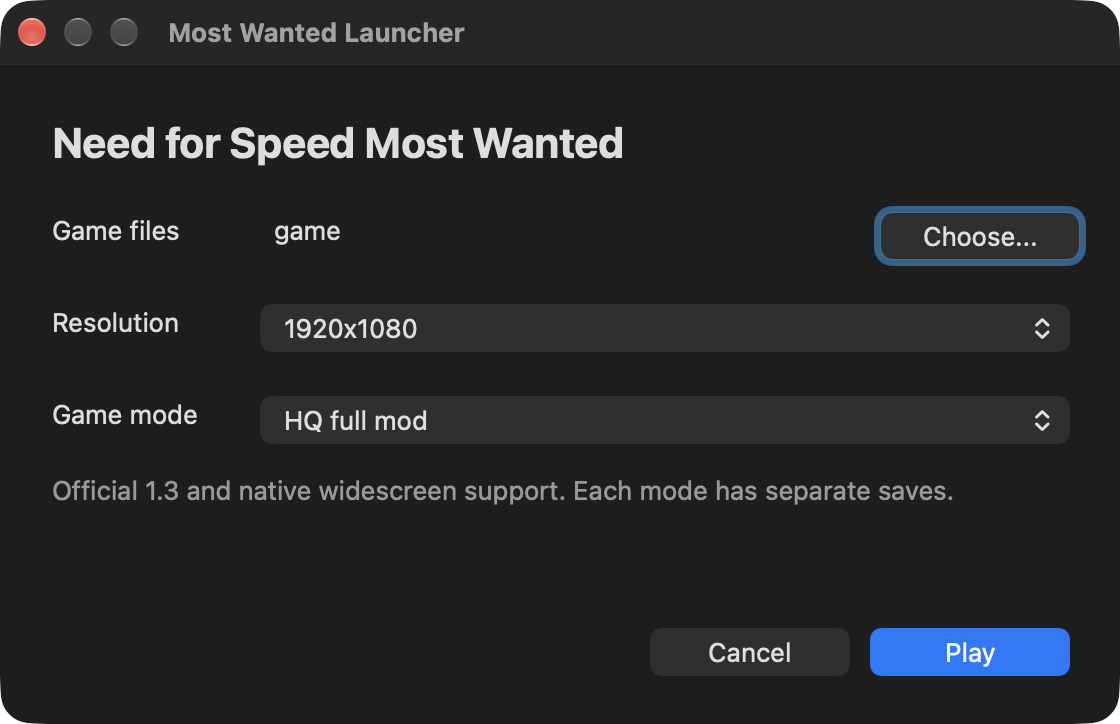
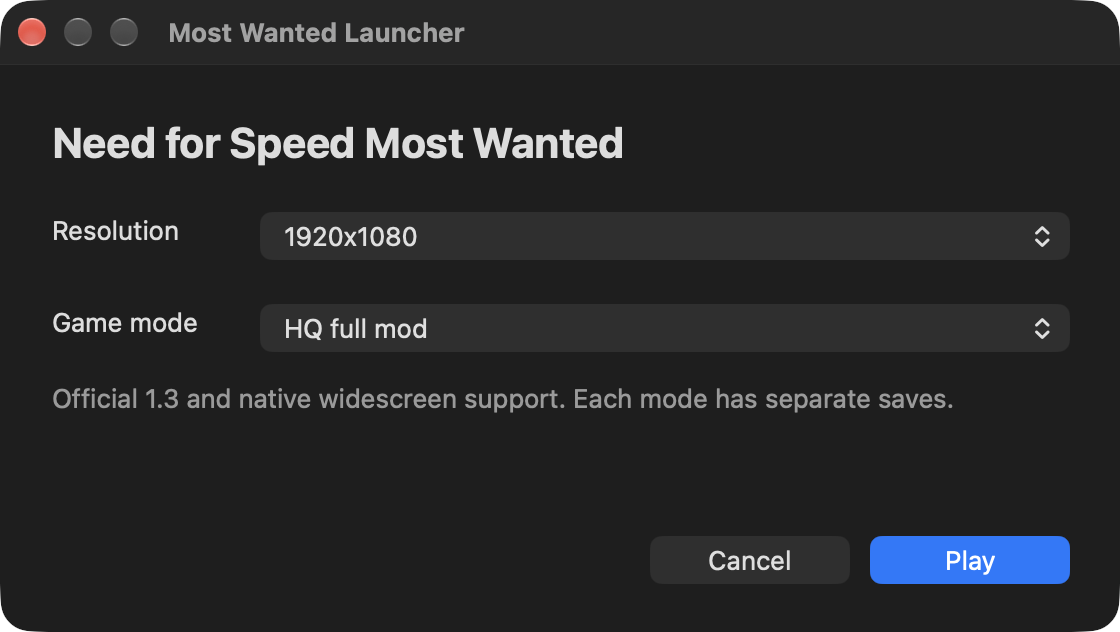
Always run the game bundled inside the app

diff --git a/runtime/launcher.m b/runtime/launcher.m
@@ -11,13 +11,20 @@ int app_full_hq_supported(void){
 #endif
 }
 
-NSString *launcher_game_folder(NSString *resources,NSString *external,NSString *previous){
-    NSFileManager *files=NSFileManager.defaultManager;
-    if(external.length&&[files fileExistsAtPath:[external stringByAppendingPathComponent:@"speed.exe"]])return external;
+/* The game always runs from the copy inside the app: Contents/Resources/game. */
+NSString *launcher_game_folder(NSString *resources){
+    if(!resources.length)return nil;
     NSString *bundled=[resources stringByAppendingPathComponent:@"game"];
-    if([files fileExistsAtPath:[bundled stringByAppendingPathComponent:@"speed.exe"]])return bundled;
-    return previous;
+    for(NSString *name in @[@"speed.exe",@"d3dx9_26.dll"]){
+        BOOL directory=NO;
+        if(![NSFileManager.defaultManager fileExistsAtPath:[bundled stringByAppendingPathComponent:name] isDirectory:&directory]||directory)
+            return nil;
+    }
+    return bundled;
 }
+
+static NSString *const missing_game=@"The game files inside NFSMW.app are missing or damaged. "
+    "Build the app again with NFSMW Builder.";
 
 int launcher_options(const char *folder,const char *mode,const char *resolution,
                      char *selected,size_t selected_size,char *error,size_t error_size){
@@ -26,7 +33,7 @@ int launcher_options(const char *folder,const char *mode,const char *resolution,
         NSString *root=folder?[NSString stringWithUTF8String:folder]:nil;
         NSString *choice=mode?[NSString stringWithUTF8String:mode]:nil;
         unsigned w=0,h=0;char tail=0;
-        if(!root.length)problem=@"Choose an installed Most Wanted game folder.";
+        if(!root.length)problem=missing_game;
         if(!resolution||sscanf(resolution,"%ux%u%c",&w,&h,&tail)!=2||w<640||h<480||w>8192||h>8192)
             problem=@"Choose a resolution between 640x480 and 8192x8192.";
         if(![@[@"standard",@"visuals",@"full"] containsObject:choice])problem=@"Unknown game mode.";
@@ -46,14 +53,14 @@ int launcher_options(const char *folder,const char *mode,const char *resolution,
             for(NSString *name in @[@"speed.exe",@"d3dx9_26.dll"]){
                 BOOL directory=NO;
                 if(![files fileExistsAtPath:[root stringByAppendingPathComponent:name] isDirectory:&directory]||directory){
-                    problem=@"Choose an installed Most Wanted game folder containing speed.exe and d3dx9_26.dll.";break;
+                    problem=missing_game;break;
                 }
             }
         }
         if(!problem&&root.length){
             int n=snprintf(selected,selected_size,"%s",root.fileSystemRepresentation);
             if(n<0||(size_t)n>=selected_size)problem=@"The installation path is too long.";
-        }else if(!problem)problem=@"Choose an installed Most Wanted game folder.";
+        }else if(!problem)problem=missing_game;
         if(problem){snprintf(error,error_size,"%s",problem.UTF8String);return 0;}
         char value[32];snprintf(value,sizeof value,"%ux%u",w,h);
         setenv("NFSRES",value,1);setenv("NFSMW_MODE",mode,1);
@@ -64,16 +71,14 @@ int launcher_options(const char *folder,const char *mode,const char *resolution,
 
 @interface MWLauncher : NSObject <NSWindowDelegate>
 @property NSWindow *window;
-@property NSTextField *folderLabel,*status;
+@property NSTextField *status;
 @property NSPopUpButton *resolution,*mode;
 @property NSButton *playButton;
 @property NSString *folder,*selected;
-@property BOOL externalFolder;
 @end
 
 @implementation MWLauncher
 - (void)refresh{
-    self.folderLabel.stringValue=self.folder.length?self.folder.lastPathComponent:@"No game folder selected";
     NSArray *modes=@[@"standard",@"visuals",@"full"];
     char selected[4096],error[1024];
     BOOL valid=launcher_options(self.folder.fileSystemRepresentation,
@@ -82,14 +87,6 @@ int launcher_options(const char *folder,const char *mode,const char *resolution,
                                selected,sizeof selected,error,sizeof error);
     self.playButton.enabled=valid;
     self.status.stringValue=valid?@"Official 1.3 and native widescreen support. Each mode has separate saves.":[NSString stringWithUTF8String:error];
-}
-- (void)chooseFolder:(id)sender{
-    (void)sender;
-    NSOpenPanel *panel=[NSOpenPanel openPanel];panel.canChooseDirectories=YES;panel.canChooseFiles=NO;
-    panel.allowsMultipleSelection=NO;panel.prompt=@"Choose";
-    panel.message=@"Select the installed Most Wanted game folder.";
-    if(self.folder.length)panel.directoryURL=[NSURL fileURLWithPath:self.folder isDirectory:YES];
-    if([panel runModal]==NSModalResponseOK){self.folder=panel.URL.path;self.externalFolder=YES;[self refresh];}
 }
 - (void)changed:(id)sender{(void)sender;[self refresh];}
 - (void)play:(id)sender{
@@ -100,8 +97,6 @@ int launcher_options(const char *folder,const char *mode,const char *resolution,
         self.status.stringValue=[NSString stringWithUTF8String:error];return;
     }
     NSUserDefaults *prefs=NSUserDefaults.standardUserDefaults;
-    [prefs setObject:self.folder forKey:@"GameFolder"];
-    if(self.externalFolder)[prefs setObject:self.folder forKey:@"ExternalGameFolder"];
     [prefs setObject:mode forKey:@"GameMode"];
     [prefs setObject:self.resolution.titleOfSelectedItem forKey:@"Resolution"];
     self.selected=[NSString stringWithUTF8String:selected];[NSApp stopModalWithCode:NSModalResponseOK];
@@ -116,21 +111,23 @@ static NSTextField *label(NSString *text,NSRect rect,NSView *view){
 
 NSString *launcher_choose_game(void){
     [NSApplication sharedApplication];[NSApp setActivationPolicy:NSApplicationActivationPolicyRegular];
-    MWLauncher *controller=[MWLauncher new];NSUserDefaults *prefs=NSUserDefaults.standardUserDefaults;
-    NSString *external=[prefs stringForKey:@"ExternalGameFolder"];
-    controller.folder=launcher_game_folder(NSBundle.mainBundle.resourcePath,external,[prefs stringForKey:@"GameFolder"]);
-    controller.externalFolder=external.length&&[controller.folder isEqualToString:external];
-    controller.window=[[NSWindow alloc] initWithContentRect:NSMakeRect(0,0,560,330)
+    NSUserDefaults *prefs=NSUserDefaults.standardUserDefaults;
+    /* Older launchers remembered a game folder outside the app; never use it again. */
+    [prefs removeObjectForKey:@"GameFolder"];[prefs removeObjectForKey:@"ExternalGameFolder"];
+    NSString *folder=launcher_game_folder(NSBundle.mainBundle.resourcePath);
+    if(!folder){
+        NSAlert *alert=[NSAlert new];alert.alertStyle=NSAlertStyleCritical;
+        alert.messageText=@"Most Wanted could not start";alert.informativeText=missing_game;
+        [alert addButtonWithTitle:@"Quit"];[NSApp activateIgnoringOtherApps:YES];[alert runModal];
+        return nil;
+    }
+    MWLauncher *controller=[MWLauncher new];controller.folder=folder;
+    controller.window=[[NSWindow alloc] initWithContentRect:NSMakeRect(0,0,560,284)
         styleMask:NSWindowStyleMaskTitled|NSWindowStyleMaskClosable backing:NSBackingStoreBuffered defer:NO];
     controller.window.title=@"Most Wanted Launcher";controller.window.releasedWhenClosed=NO;
     controller.window.delegate=controller;NSView *view=controller.window.contentView;
-    NSTextField *title=label(@"Need for Speed Most Wanted",NSMakeRect(24,275,500,28),view);
+    NSTextField *title=label(@"Need for Speed Most Wanted",NSMakeRect(24,229,500,28),view);
     title.font=[NSFont boldSystemFontOfSize:21];
-    label(@"Game files",NSMakeRect(24,233,105,22),view);
-    controller.folderLabel=label(@"",NSMakeRect(135,233,295,22),view);
-    controller.folderLabel.lineBreakMode=NSLineBreakByTruncatingMiddle;
-    NSButton *browse=[NSButton buttonWithTitle:@"Choose..." target:controller action:@selector(chooseFolder:)];
-    browse.frame=NSMakeRect(440,230,100,28);[view addSubview:browse];
     label(@"Resolution",NSMakeRect(24,187,105,22),view);
     controller.resolution=[[NSPopUpButton alloc] initWithFrame:NSMakeRect(130,184,405,28) pullsDown:NO];
     NSMutableArray *sizes=[@[@"640x480",@"800x600",@"1024x768",@"1280x720",@"1280x800",@"1280x960",@"1440x900",@"1600x900",@"1680x1050",@"1920x1080",@"1920x1200",@"2560x1440",@"2560x1600",@"3840x2160"] mutableCopy];

diff --git a/tests/launcher_gui.m b/tests/launcher_gui.m
@@ -10,29 +10,52 @@ NSString *launcher_choose_game(void);
 @implementation TestPreferences
 - (NSString *)stringForKey:(NSString *)key{return self.values[key];}
 - (void)setObject:(id)value forKey:(NSString *)key{self.values[key]=value;}
+- (void)removeObjectForKey:(NSString *)key{[self.values removeObjectForKey:key];}
 @end
 static TestPreferences *preferences;
 static id isolated_preferences(id self,SEL command){(void)self;(void)command;return preferences;}
 
+static void collect(NSView *view,NSMutableArray *views){
+    for(NSView *child in view.subviews){[views addObject:child];collect(child,views);}
+}
+
+/* argv[1]: "bundled" (Resources/game is ready) or "missing"; argv[2]: screenshot path. */
 int main(int argc,char **argv){
     @autoreleasepool{
         assert(argc==3);
-        NSString *folder=[NSString stringWithUTF8String:argv[1]];
+        BOOL missing=!strcmp(argv[1],"missing");
         NSString *capture=[NSString stringWithUTF8String:argv[2]];
+        NSString *game=[NSBundle.mainBundle.resourcePath stringByAppendingPathComponent:@"game"];
         preferences=[TestPreferences new];
-        preferences.values=[@{@"GameFolder":folder,@"GameMode":@"full",@"Resolution":@"1920x1080"} mutableCopy];
+        preferences.values=[@{@"GameFolder":@"/obsolete/game",@"ExternalGameFolder":@"/obsolete/external",
+                              @"GameMode":@"full",@"Resolution":@"1920x1080"} mutableCopy];
         method_setImplementation(class_getClassMethod(NSUserDefaults.class,@selector(standardUserDefaults)),(IMP)isolated_preferences);
         [NSApplication sharedApplication];
+        __block BOOL checked=NO;
         NSTimer *timer=[NSTimer timerWithTimeInterval:.5 repeats:NO block:^(NSTimer *unused){
             (void)unused;
             NSWindow *window=NSApp.modalWindow;
-            assert(window.visible&&[window.title isEqualToString:@"Most Wanted Launcher"]);
+            assert(window.visible);
+            NSMutableArray *views=[NSMutableArray array];collect(window.contentView,views);
+            if(missing){
+                BOOL explained=NO;
+                for(NSView *view in views)
+                    if([view isKindOfClass:NSTextField.class]&&[((NSTextField *)view).stringValue containsString:@"Build the app again with NFSMW Builder"])explained=YES;
+                assert(explained);checked=YES;
+                [NSApp stopModalWithCode:NSAlertFirstButtonReturn];return;
+            }
+            assert([window.title isEqualToString:@"Most Wanted Launcher"]);
             NSPopUpButton *mode=nil,*resolution=nil;NSButton *play=nil;
-            for(NSView *view in window.contentView.subviews){
+            for(NSView *view in views){
                 if([view isKindOfClass:NSPopUpButton.class]){
                     NSPopUpButton *popup=(NSPopUpButton *)view;
                     if(popup.numberOfItems==3)mode=popup;else resolution=popup;
-                }else if([view isKindOfClass:NSButton.class]&&[((NSButton *)view).title isEqualToString:@"Play"])play=(NSButton *)view;
+                }else if([view isKindOfClass:NSButton.class]){
+                    NSString *title=((NSButton *)view).title;
+                    assert(![title hasPrefix:@"Choose"]);
+                    if([title isEqualToString:@"Play"])play=(NSButton *)view;
+                }else if([view isKindOfClass:NSTextField.class])
+                    assert(![((NSTextField *)view).stringValue isEqualToString:@"Game files"]);
             }
             assert(mode&&resolution&&play&&play.enabled);
             assert(([mode.itemTitles isEqualToArray:@[@"Standard",@"HQ visuals only",@"HQ full mod"]]));
@@ -46,14 +69,21 @@ int main(int argc,char **argv){
             [window.contentView cacheDisplayInRect:window.contentView.bounds toBitmapImageRep:bitmap];
             NSData *png=[bitmap representationUsingType:NSBitmapImageFileTypePNG properties:@{}];
             assert([png writeToFile:capture atomically:YES]);
-            [play performClick:nil];
+            checked=YES;[play performClick:nil];
         }];
         [NSRunLoop.mainRunLoop addTimer:timer forMode:NSModalPanelRunLoopMode];
         NSString *selected=launcher_choose_game();
-        assert([selected isEqualToString:[folder stringByAppendingPathComponent:@".nfsmw/full"]]);
-        assert([preferences.values[@"GameMode"] isEqualToString:@"full"]);
-        assert([preferences.values[@"Resolution"] isEqualToString:@"1920x1080"]);
-        puts("Launcher: all three modes, resolution persistence and Play passed");
+        assert(checked);
+        assert(!preferences.values[@"GameFolder"]&&!preferences.values[@"ExternalGameFolder"]);
+        if(missing){
+            assert(!selected);
+            puts("Launcher: missing bundled game explained, stale folders removed");
+        }else{
+            assert([selected isEqualToString:[game stringByAppendingPathComponent:@".nfsmw/full"]]);
+            assert([preferences.values[@"GameMode"] isEqualToString:@"full"]);
+            assert([preferences.values[@"Resolution"] isEqualToString:@"1920x1080"]);
+            puts("Launcher: bundled game, all three modes, resolution persistence and Play passed");
+        }
     }
     return 0;
 }

diff --git a/tests/test_launcher.py b/tests/test_launcher.py
@@ -7,30 +7,42 @@ import unittest
 
 
 class LauncherTests(unittest.TestCase):
-    def test_packaged_game_is_selected_without_a_previous_development_path(self):
+    def test_only_the_game_inside_the_app_is_used(self):
         with tempfile.TemporaryDirectory() as tmp:
             root=Path(tmp);resources=root/'Resources';bundled=resources/'game'
             bundled.mkdir(parents=True);(bundled/'speed.exe').write_bytes(b'test')
-            external=root/'external';external.mkdir();(external/'speed.exe').write_bytes(b'test')
+            partial=root/'Partial';(partial/'game').mkdir(parents=True);(partial/'game/speed.exe').write_bytes(b'test')
+            (bundled/'d3dx9_26.dll').write_bytes(b'test')
+            broken=root/'Broken';(broken/'game/speed.exe').mkdir(parents=True);(broken/'game/d3dx9_26.dll').write_bytes(b'test')
             source=root/'probe.m'
             source.write_text('''#import <Foundation/Foundation.h>
 #include <assert.h>
-NSString *launcher_game_folder(NSString *,NSString *,NSString *);
+NSString *launcher_game_folder(NSString *);
 int main(int argc,char **argv){@autoreleasepool{
- NSString *r=@(argv[1]),*e=@(argv[2]),*old=@"obsolete-development-install";
- assert([launcher_game_folder(r,nil,old) isEqualToString:[r stringByAppendingPathComponent:@"game"]]);
- assert([launcher_game_folder(r,e,old) isEqualToString:e]);
- assert([launcher_game_folder(r,@"missing-external",old) isEqualToString:[r stringByAppendingPathComponent:@"game"]]);
- assert([launcher_game_folder(@"missing-resources",nil,old) isEqualToString:old]);
+ NSString *r=@(argv[1]);
+ assert([launcher_game_folder(r) isEqualToString:[r stringByAppendingPathComponent:@"game"]]);
+ assert(!launcher_game_folder(@(argv[2])));
+ assert(!launcher_game_folder(@(argv[3])));
+ assert(!launcher_game_folder(@"missing-resources"));
+ assert(!launcher_game_folder(nil));
  }return 0;}
 ''')
             binary=root/'probe'
             subprocess.run(['clang','-fobjc-arc',str(source),'runtime/launcher.m',
                             '-framework','Cocoa','-o',str(binary)],check=True,capture_output=True)
-            subprocess.run([str(binary),str(resources),str(external)],check=True,capture_output=True)
+            subprocess.run([str(binary),str(resources),str(partial),str(broken)],check=True,capture_output=True)
+
+    def test_launcher_has_no_folder_chooser_or_saved_game_path(self):
+        source=Path('runtime/launcher.m').read_text()
+        for gone in ('NSOpenPanel','chooseFolder','Choose...','setObject:self.folder'):
+            self.assertNotIn(gone,source)
+        self.assertIn('removeObjectForKey:@"GameFolder"',source)
+        self.assertIn('removeObjectForKey:@"ExternalGameFolder"',source)
 
     @unittest.skipUnless(os.environ.get('NFSMW_TEST_GUI'), 'set NFSMW_TEST_GUI for the visible Cocoa launcher test')
     def test_visible_launcher_controls(self):
+        # Outside a bundle NSBundle.mainBundle.resourcePath is the probe's folder, so root/game
+        # stands in for Contents/Resources/game.
         with tempfile.TemporaryDirectory() as tmp:
             root = Path(tmp)
             game = root / 'game'
@@ -43,8 +55,18 @@ int main(int argc,char **argv){@autoreleasepool{
             subprocess.run(['clang', '-fobjc-arc', '-DNFS_HQ_MODULES=1', 'tests/launcher_gui.m', 'runtime/launcher.m', '-framework', 'Cocoa', '-o', str(binary)], check=True, capture_output=True)
             capture = Path('out/launcher.png').resolve()
             capture.parent.mkdir(exist_ok=True)
-            subprocess.run([str(binary), str(game), str(capture)], check=True, timeout=30, capture_output=True)
+            subprocess.run([str(binary), 'bundled', str(capture)], check=True, timeout=30, capture_output=True)
             self.assertTrue(capture.is_file())
+
+    @unittest.skipUnless(os.environ.get('NFSMW_TEST_GUI'), 'set NFSMW_TEST_GUI for the visible Cocoa launcher test')
+    def test_missing_bundled_game_explains_and_quits(self):
+        with tempfile.TemporaryDirectory() as tmp:
+            root = Path(tmp)
+            (root / 'game').mkdir()
+            (root / 'game/d3dx9_26.dll').write_bytes(b'test')
+            binary = root / 'probe'
+            subprocess.run(['clang', '-fobjc-arc', '-DNFS_HQ_MODULES=1', 'tests/launcher_gui.m', 'runtime/launcher.m', '-framework', 'Cocoa', '-o', str(binary)], check=True, capture_output=True)
+            subprocess.run([str(binary), 'missing', str(root / 'unused.png')], check=True, timeout=30, capture_output=True)
 
     def test_resolution_mode_validation_and_profile_isolation(self):
         with tempfile.TemporaryDirectory() as tmp:

diff --git a/README.md b/README.md
@@ -112,6 +112,11 @@ everything for a bug report, and **Try again** returns to the checklist.
 
 Open NFSMW.app. Choose a resolution and game mode, then click Play.
 
+The app is self-contained: your game files are inside it, so it needs no game
+folder and keeps working after you move it anywhere. The app itself is never
+written to while you play. If its game files are missing or damaged, it says
+so and quits; build the app again with NFSMW Builder.
+
 Click the title screen to continue. Use arrows and Enter in menus, arrows to
 drive, and Esc to pause. The window close button and Cmd-Q request a normal
 game shutdown.
@@ -200,8 +205,9 @@ includes the 3.34 GB HQ package; the launcher lets you choose whether to use
 its visual assets or full mod behavior. Verified downloads are cached.
 
 When the build finishes, open **`out/NFSMW.app`**. Your verified game copy
-is bundled inside the app, so you can move it to Applications. Choose a
-resolution and game mode, then click Play. Your source copy is preserved.
+is bundled inside the app, so you can move it to Applications or anywhere
+else; it never reads a game folder outside the app. Choose a resolution and
+game mode, then click Play. Your source copy is preserved.
 A failed build preserves the previous app; diagnostic logs remain under `out/`.
 
 Packaging extracts the original Windows icon from your verified `speed.exe`
